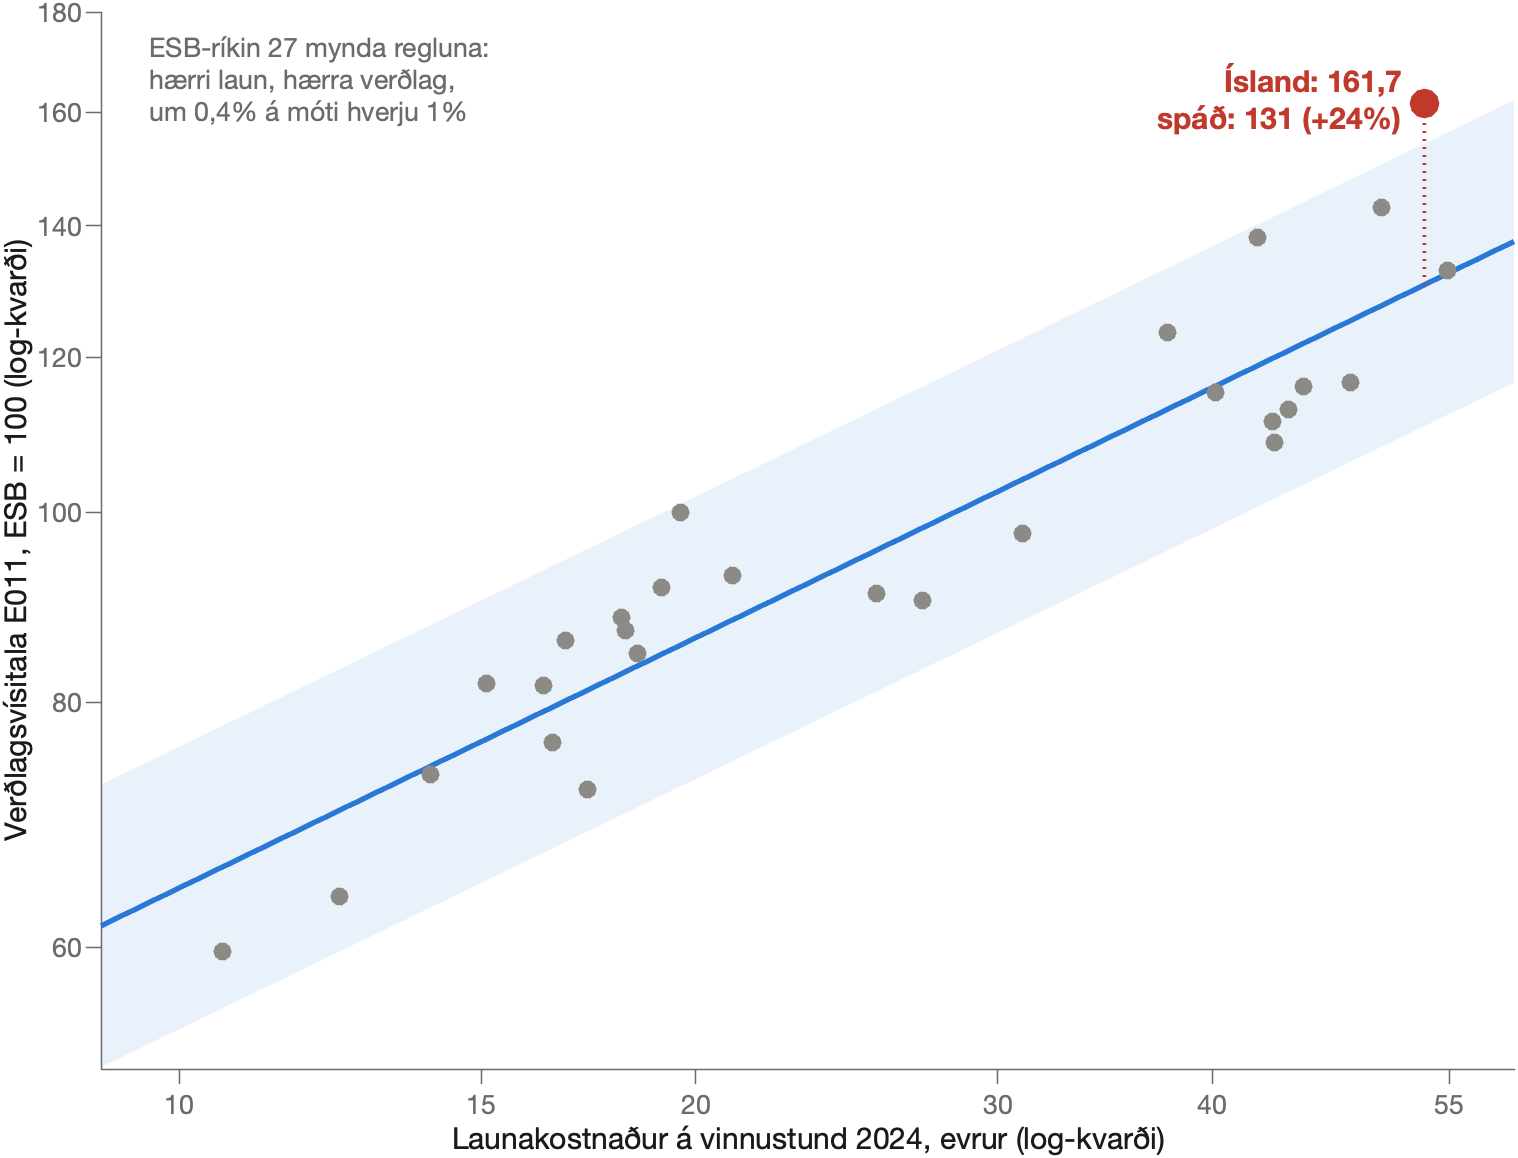
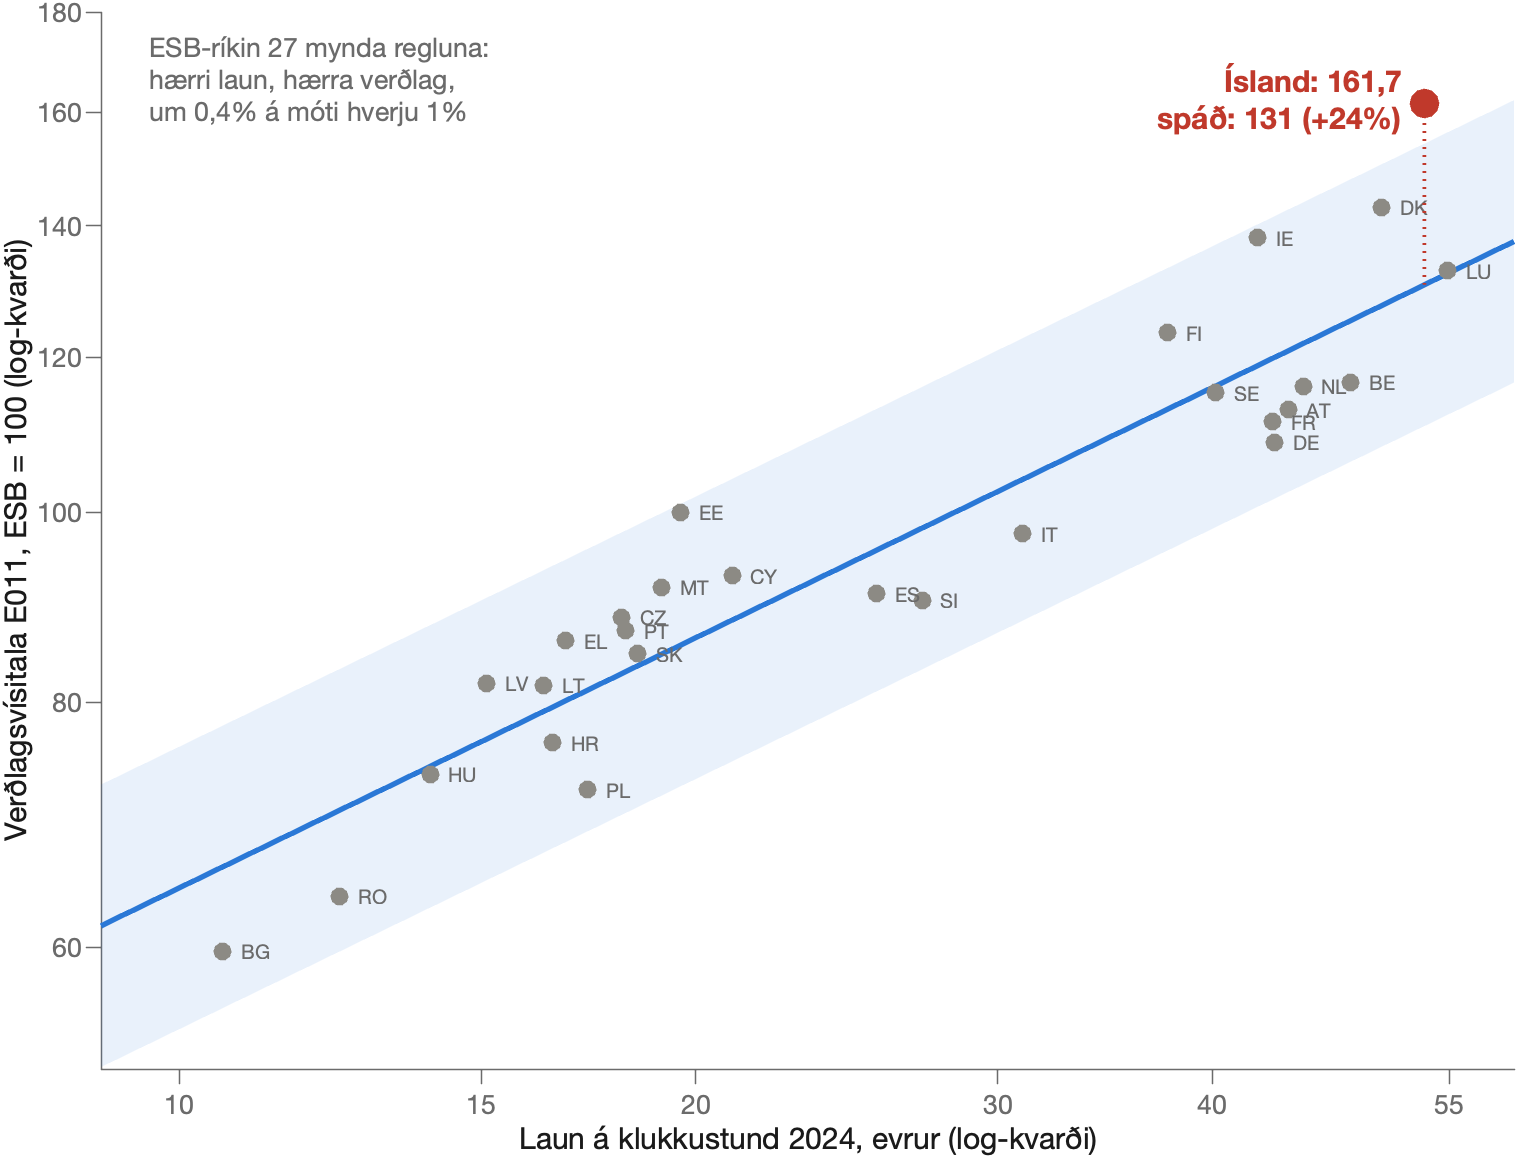
Landamerkingar á aðhvarfsmynd

diff --git a/mynd02_verdlag/forrit/gera_mynd3_adhvarf.m b/mynd02_verdlag/forrit/gera_mynd3_adhvarf.m
@@ -61,6 +61,10 @@ plot(ax, exp(gx), exp(gl), '-', 'Color', BLUE, 'LineWidth', 1.6);
 
 scatter(ax, E.launakostnadur_eur, E.pli_E011, 30, ...
     'MarkerFaceColor', GRAY, 'MarkerEdgeColor', 'none');
+for i = 1:height(E)
+    text(ax, E.launakostnadur_eur(i)*1.025, E.pli_E011(i), E.geo(i), ...
+        'FontSize', 6, 'Color', MUT);
+end
 
 scatter(ax, wIS, pIS, 80, 'o', ...
     'MarkerFaceColor', RED, 'MarkerEdgeColor', 'none');
@@ -82,7 +86,7 @@ ax.XMinorTick = 'off'; ax.YMinorTick = 'off';
 ax.XAxis.MinorTickValues = []; ax.YAxis.MinorTickValues = [];
 ax.FontSize = 8; ax.XColor = MUT; ax.YColor = MUT;
 ax.TickDir = 'out'; ax.Box = 'off';
-xlabel(ax, 'Launakostnaður á vinnustund 2024, evrur (log-kvarði)', ...
+xlabel(ax, 'Laun á klukkustund 2024, evrur (log-kvarði)', ...
     'FontSize', 9, 'Color', INK);
 ylabel(ax, 'Verðlagsvísitala E011, ESB = 100 (log-kvarði)', ...
     'FontSize', 9, 'Color', INK);
